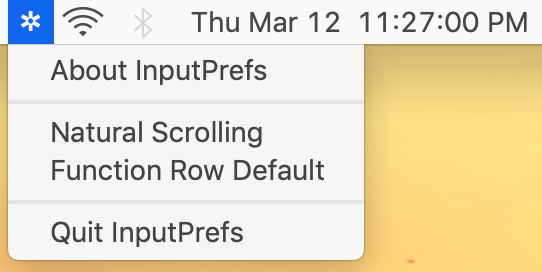
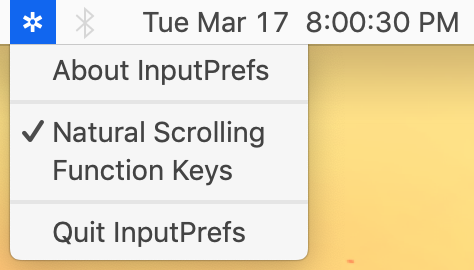
Added checkmarks for menu buttons, changed function row name

diff --git a/InputPrefs/AppDelegate.swift b/InputPrefs/AppDelegate.swift
@@ -15,6 +15,7 @@ class AppDelegate: NSObject, NSApplicationDelegate {
     let statusItem = NSStatusBar.system.statusItem(withLength: NSStatusItem.variableLength)
     var menu: NSMenu?
     
+    //AppleScripts to switch the current default settings
     let switchScrollingScript = """
     tell application "System Preferences"
         reveal anchor "trackpadTab" of pane "com.apple.preference.trackpad"
@@ -38,9 +39,18 @@ class AppDelegate: NSObject, NSApplicationDelegate {
     func applicationDidFinishLaunching(_ aNotification: Notification) {
         menu = NSMenu()
         menu?.addItem(NSMenuItem(title: "About InputPrefs", action: #selector(loadAboutWindow), keyEquivalent: ""))
-                menu?.addItem(NSMenuItem.separator())
-        menu?.addItem(NSMenuItem(title: "Natural Scrolling", action: #selector(switchScrolling), keyEquivalent: ""))
-        menu?.addItem(NSMenuItem(title: "Function Row Default", action: #selector(switchFnKeys), keyEquivalent: ""))
+        menu?.addItem(NSMenuItem.separator())
+        
+        //get current scrolling preference and make menu item with according state
+        let scrollingItem = NSMenuItem(title: "Natural Scrolling", action: #selector(switchScrolling), keyEquivalent: "")
+        scrollingItem.state = UserDefaults.standard.value(forKey: "com.apple.swipescrolldirection") as! Bool ? NSControl.StateValue.on : NSControl.StateValue.off
+        menu?.addItem(scrollingItem)
+        
+        //get current fnKeys preference and make menu item with according state
+        let fnKeysItem = NSMenuItem(title: "Function Keys", action: #selector(switchFnKeys), keyEquivalent: "")
+        fnKeysItem.state = UserDefaults.standard.value(forKey: "com.apple.keyboard.fnState") as! Bool ? NSControl.StateValue.on : NSControl.StateValue.off
+        menu?.addItem(fnKeysItem)
+        
         menu?.addItem(NSMenuItem.separator())
         menu?.addItem(NSMenuItem(title: "Quit InputPrefs", action: #selector(NSApplication.terminate(_:)), keyEquivalent: ""))
         statusItem.menu = menu
@@ -49,15 +59,17 @@ class AppDelegate: NSObject, NSApplicationDelegate {
     
     @objc func switchScrolling() {
         executeScript(script: switchScrollingScript)
+        menu?.item(at: 2)?.state = UserDefaults.standard.value(forKey: "com.apple.swipescrolldirection") as! Bool ? NSControl.StateValue.on : NSControl.StateValue.off
     }
     
     @objc func switchFnKeys() {
         executeScript(script: switchFnKeysScript)
+        menu?.item(at: 3)?.state = UserDefaults.standard.value(forKey: "com.apple.keyboard.fnState") as! Bool ? NSControl.StateValue.on : NSControl.StateValue.off
     }
     
     func executeScript(script: String) {
         if let scriptObject = NSAppleScript(source: script) {
-            var errorDict: NSDictionary? = nil
+            var errorDict: NSDictionary?
             let _: NSAppleEventDescriptor? = scriptObject.executeAndReturnError(&errorDict)
             print(errorDict ?? "")
         }
@@ -66,9 +78,5 @@ class AppDelegate: NSObject, NSApplicationDelegate {
     @objc func loadAboutWindow() {
         NSApp.orderFrontStandardAboutPanel()
         NSApp.activate(ignoringOtherApps: true)
-    }
-
-    func applicationWillTerminate(_ aNotification: Notification) {
-        // Insert code here to tear down your application
     }
 }
